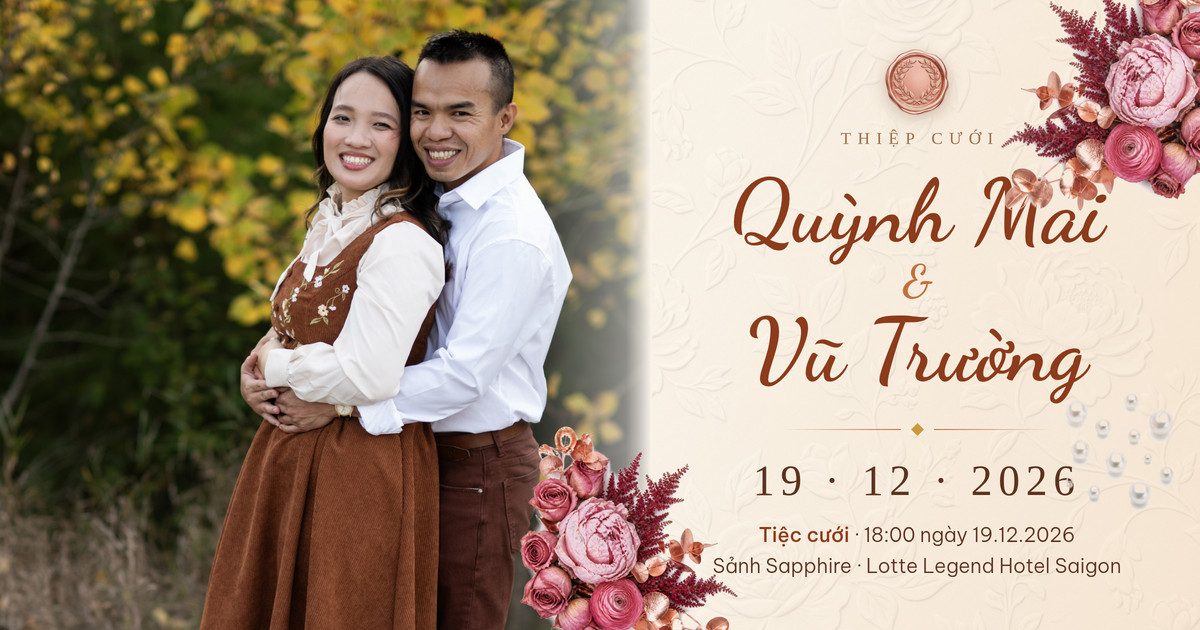
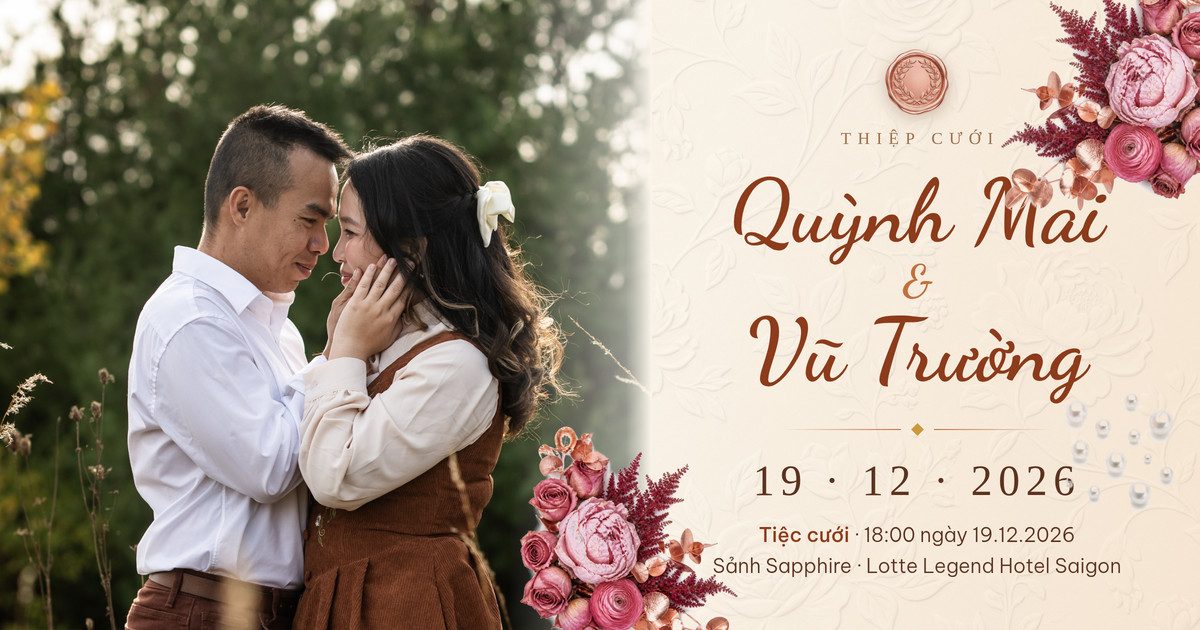
Vu Truong & Quynh Mai: og-cover doi sang anh 2 (thay anh 3), ?v=4; nhac Haley Reinhart mo nho 1/3, nut bat/tat to-nho (luot 25)

diff --git a/products/Invitation/Wedding/khach_vu-truong-quynh-mai/og-cover.html b/products/Invitation/Wedding/khach_vu-truong-quynh-mai/og-cover.html
@@ -8,7 +8,7 @@
   Trang dựng ảnh chia sẻ 1200×630 (og-cover.jpg) — không phải trang cho khách xem.
   Chụp lại khi đổi nội dung:
     node scripts/build-og-cover.js --page products/Invitation/Wedding/khach_vu-truong-quynh-mai/og-cover.html --out products/Invitation/Wedding/khach_vu-truong-quynh-mai/og-cover.jpg
-  Ảnh trái là ảnh thật của khách (assets/3.jpg, ảnh màu) — thay bằng ảnh thật của khách khi có ảnh mới.
+  Ảnh trái là ảnh thật của khách (assets/2.jpg, ảnh màu) — thay bằng ảnh thật của khách khi có ảnh mới.
 -->
 <style>
 @font-face{font-family:'Dancing Script';font-style:normal;font-weight:600;font-display:swap;src:url('fonts/DancingScript-600-vietnamese.woff2') format('woff2');unicode-range:U+0102-0103, U+0110-0111, U+0128-0129, U+0168-0169, U+01A0-01A1, U+01AF-01B0, U+0300-0301, U+0303-0304, U+0308-0309, U+0323, U+0329, U+1EA0-1EF9, U+20AB;}
@@ -58,7 +58,7 @@
 </style>
 </head>
 <body>
-  <div class="photo"><img src="assets/3.jpg" alt="Ảnh cưới Quỳnh Mai & Vũ Trường"></div>
+  <div class="photo"><img src="assets/2.jpg" alt="Ảnh cưới Quỳnh Mai & Vũ Trường"></div>
   <img class="seam-flowers" src="assets/flowers-cluster.webp" alt="">
   <img class="corner-flowers" src="assets/flowers-cluster.webp" alt="">
   <img class="pearls" src="assets/pearls.webp" alt="">

diff --git a/products/Invitation/Wedding/khach_vu-truong-quynh-mai/index.html b/products/Invitation/Wedding/khach_vu-truong-quynh-mai/index.html
@@ -7,7 +7,7 @@
 <meta name="description" content="Trân trọng kính mời bạn tới dự tiệc cưới của Quỳnh Mai & Vũ Trường — Thứ Bảy, 19.12.2026, 18:00 tại Sảnh Sapphire, Tầng 2, Lotte Legend Hotel Saigon, 2A-4A Tôn Đức Thắng, Phường Sài Gòn, TP. Hồ Chí Minh.">
 <meta property="og:title" content="Thiệp Cưới Quỳnh Mai & Vũ Trường — 19.12.2026">
 <meta property="og:description" content="Trân trọng kính mời bạn tới dự tiệc cưới của chúng tôi — Thứ Bảy, 19.12.2026, 18:00 tại Sảnh Sapphire, Tầng 2, Lotte Legend Hotel Saigon, 2A-4A Tôn Đức Thắng, Phường Sài Gòn, TP. Hồ Chí Minh.">
-<meta property="og:image" content="og-cover.jpg?v=3">
+<meta property="og:image" content="og-cover.jpg?v=4">
 <meta property="og:type" content="website">
 <!-- Font tu host trong fonts/ (Dancing Script, Tinos, Be Vietnam Pro) — khong phu thuoc Google Fonts -->
 <style>

diff --git a/wedding/vu-truong-quynh-mai/index.html b/wedding/vu-truong-quynh-mai/index.html
@@ -9,7 +9,7 @@
     <meta property="og:type" content="website">
     <meta property="og:title" content="Quỳnh Mai & Vũ Trường — Thiệp Cưới">
     <meta property="og:description" content="Trân trọng kính mời dự tiệc cưới — 18:00 thứ Bảy 19/12/2026 tại Sảnh Sapphire, Tầng 2, Lotte Legend Hotel Saigon, 2A-4A Tôn Đức Thắng, Phường Sài Gòn, TP. Hồ Chí Minh">
-    <meta property="og:image" content="https://templexa.vn/products/Invitation/Wedding/khach_vu-truong-quynh-mai/og-cover.jpg?v=3">
+    <meta property="og:image" content="https://templexa.vn/products/Invitation/Wedding/khach_vu-truong-quynh-mai/og-cover.jpg?v=4">
     <meta property="og:url" content="https://templexa.vn/wedding/vu-truong-quynh-mai/">
     <meta property="og:site_name" content="Templexa Wedding">
     <meta property="og:locale" content="vi_VN">

diff --git a/wedding/config.js b/wedding/config.js
@@ -329,6 +329,6 @@ var WEDDING = {
         src: '../../products/Invitation/Wedding/khach_vu-truong-quynh-mai/index.html',
         title: 'Quỳnh Mai & Vũ Trường — Thiệp Cưới',
         description: 'Trân trọng kính mời dự tiệc cưới — 18:00 thứ Bảy 19/12/2026 tại Sảnh Sapphire, Tầng 2, Lotte Legend Hotel Saigon, 2A-4A Tôn Đức Thắng, Phường Sài Gòn, TP. Hồ Chí Minh',
-        image: '../../products/Invitation/Wedding/khach_vu-truong-quynh-mai/og-cover.jpg?v=3',
+        image: '../../products/Invitation/Wedding/khach_vu-truong-quynh-mai/og-cover.jpg?v=4',
     },
 };
